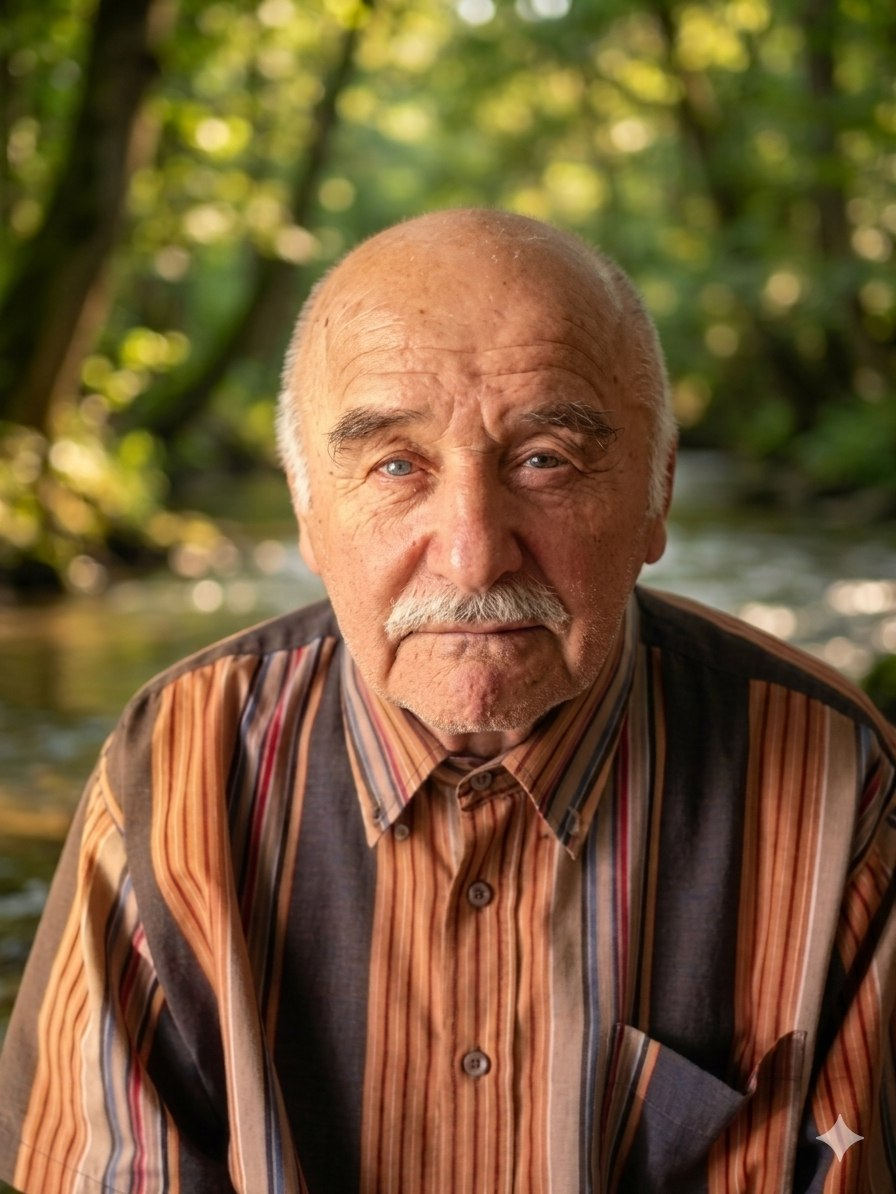
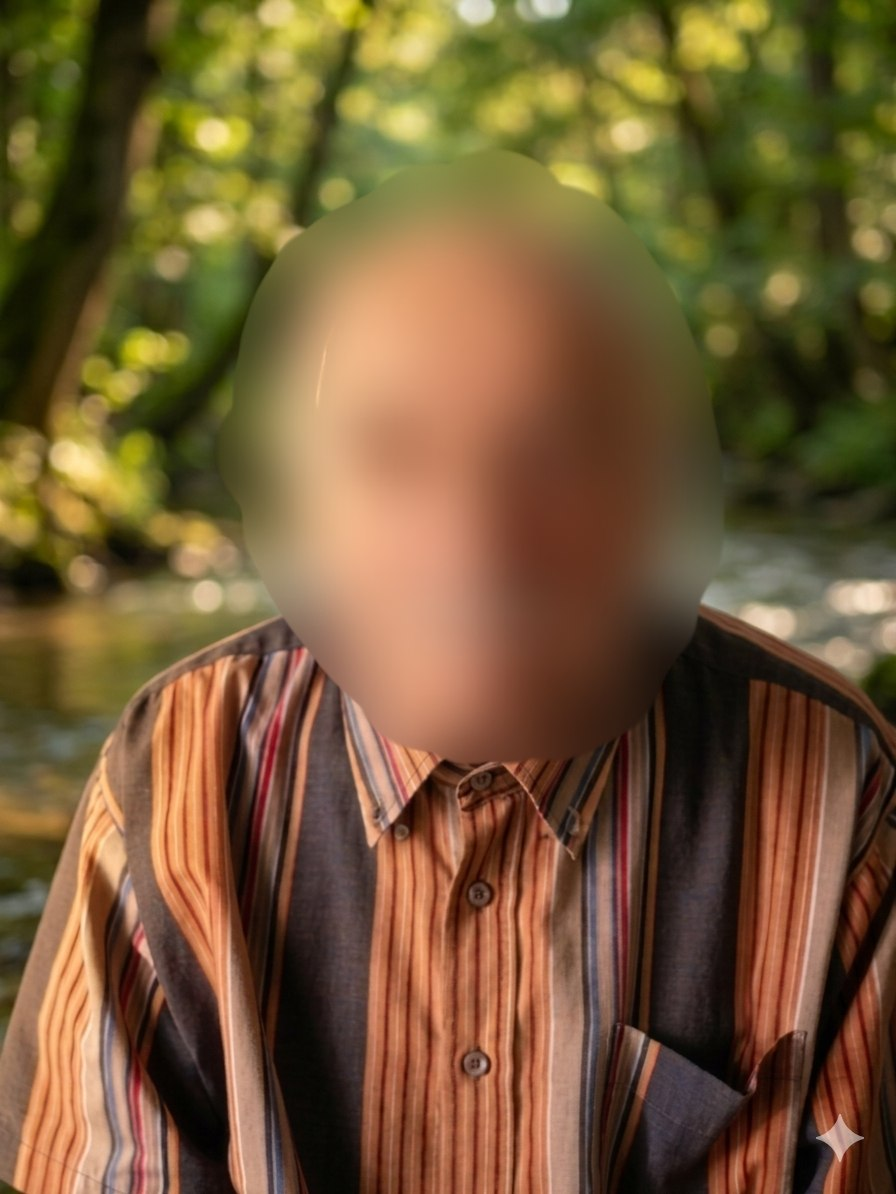
rasm qoyldi

Changed region(s): [[0.25, 0.124, 0.8125, 0.6508]]

diff --git a/index.html b/index.html
@@ -98,7 +98,7 @@
             <div class="flip-card">
                 <div class="flip-card-inner">
                     <div class="flip-card-front">
-                        <img src="./images/adam.jpg" alt="Dadam" class="card-photo">
+                        <img src="./images/dam.jpg" alt="Dadam" class="card-photo">
                         <p class="title">Dadam</p>
                     </div>
                     <div class="flip-card-back">
